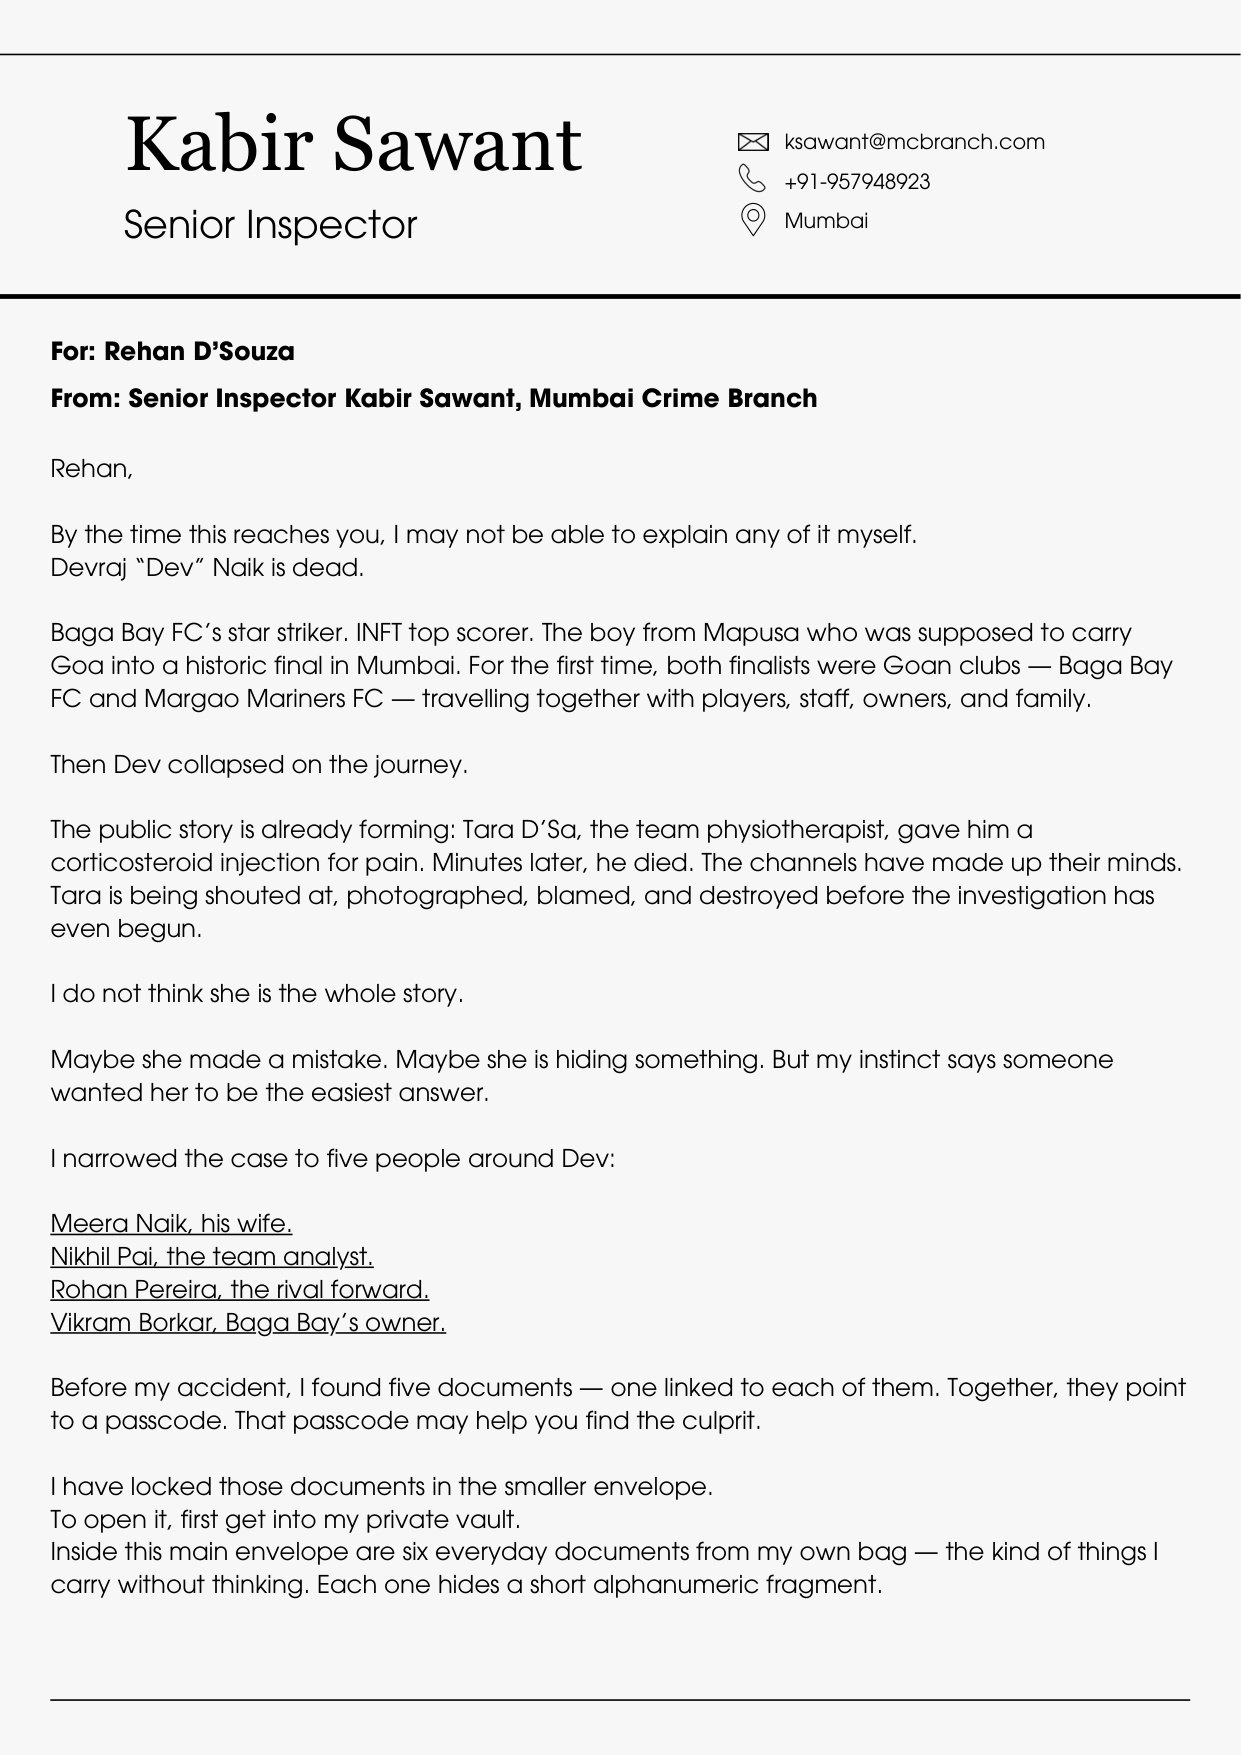
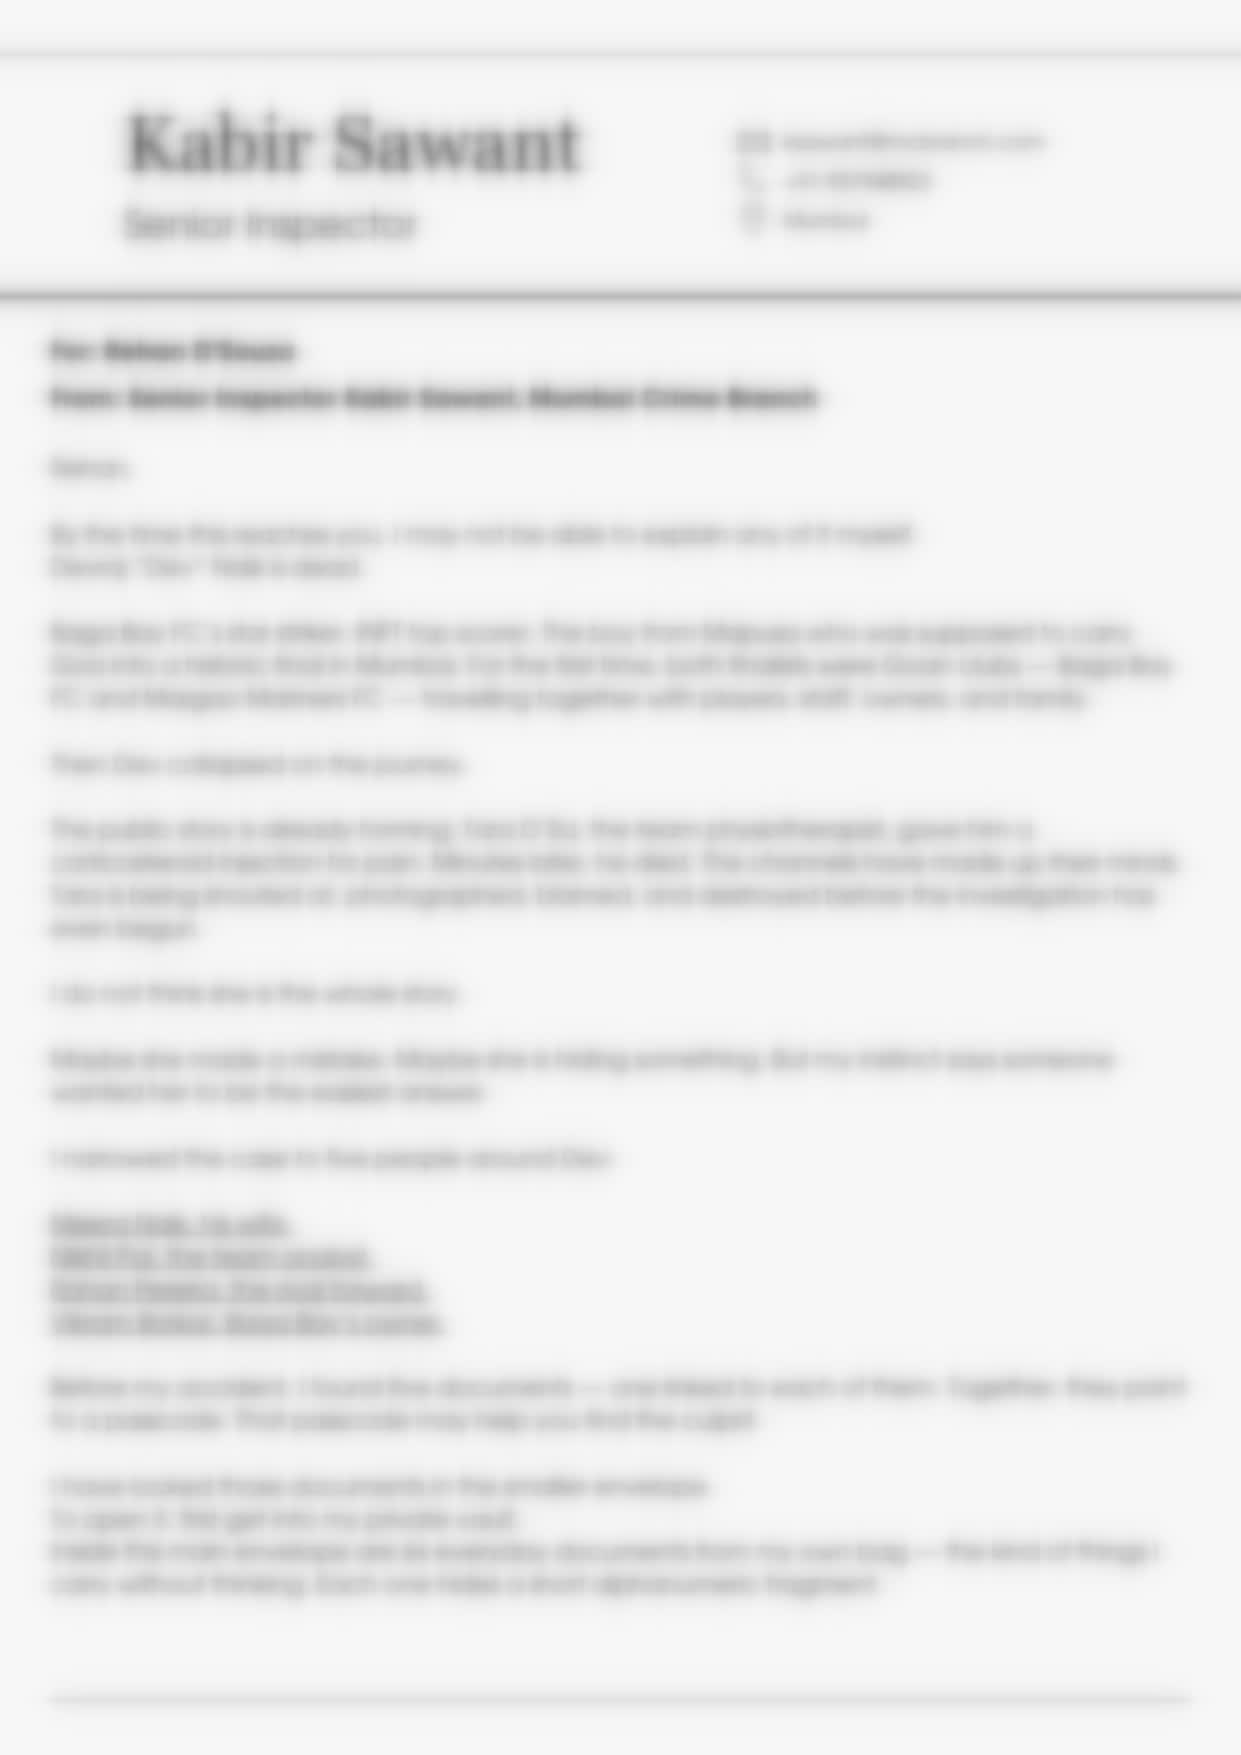
Fix password and Vault 2 grids (no zero-width columns); ffmpeg-blur hint JPEGs; drop CSS blur

Changed region(s): [[0.0, 0.0615, 1.0, 0.9231], [0.3368, 0.2769, 0.7349, 0.3077], [0.7655, 0.8615, 0.9186, 0.8923]]

diff --git a/themysterymail-vault/css/vault.css b/themysterymail-vault/css/vault.css
@@ -320,9 +320,11 @@ input[type="text"]::placeholder {
 }
 
 .password-grid {
-  display: grid;
-  grid-template-columns: repeat(auto-fill, minmax(3.5rem, 1fr));
-  gap: 0.5rem 0.35rem;
+  display: flex;
+  flex-wrap: wrap;
+  align-items: flex-start;
+  justify-content: flex-start;
+  gap: 0.5rem 0.45rem;
   margin-top: 0.5rem;
   max-width: 100%;
 }
@@ -331,8 +333,9 @@ input[type="text"]::placeholder {
   display: flex;
   flex-direction: column;
   align-items: center;
-  gap: 0.2rem;
-  min-width: 0;
+  gap: 0.25rem;
+  flex: 0 0 auto;
+  width: 3.35rem;
 }
 
 .pass-cell-hint {
@@ -352,7 +355,8 @@ input[type="text"]::placeholder {
   padding: 0.55rem 0.25rem;
   text-transform: uppercase;
   width: 100%;
-  max-width: 3.25rem;
+  min-width: 0;
+  box-sizing: border-box;
   transition:
     border-color 0.15s ease,
     background-color 0.15s ease,
@@ -681,10 +685,10 @@ input[type="text"]::placeholder {
 
 .numeric-grid {
   display: grid;
-  grid-template-columns: repeat(4, minmax(0, 1fr));
+  grid-template-columns: repeat(4, minmax(2.85rem, 1fr));
   gap: 0.65rem;
   margin-top: 0.5rem;
-  max-width: 300px;
+  max-width: 320px;
   margin-left: auto;
   margin-right: auto;
 }
@@ -695,6 +699,9 @@ input[type="text"]::placeholder {
   font-weight: 700;
   letter-spacing: 0.02em;
   padding: 0.6rem 0.35rem;
+  min-width: 0;
+  width: 100%;
+  box-sizing: border-box;
   transition:
     border-color 0.15s ease,
     background-color 0.15s ease,

diff --git a/themysterymail-vault/css/hints.css b/themysterymail-vault/css/hints.css
@@ -271,19 +271,20 @@
 }
 
 .page-hints .shot__inner {
-  display: block;
+  display: grid;
+  place-items: center;
   width: 100%;
   height: 100%;
   overflow: hidden;
 }
 
 .page-hints .shot__inner img {
-  width: 100%;
-  height: 100%;
-  object-fit: cover;
+  max-width: 100%;
+  max-height: 100%;
+  width: auto;
+  height: auto;
+  object-fit: contain;
   display: block;
-  filter: blur(5.5px);
-  transform: scale(1.14);
   user-select: none;
   -webkit-user-drag: none;
   pointer-events: none;
@@ -438,10 +439,5 @@
 @media (prefers-reduced-motion: reduce) {
   .page-hints .shots {
     scroll-snap-type: none;
-  }
-
-  .page-hints .shot__inner img {
-    filter: blur(3px);
-    transform: scale(1.08);
   }
 }

diff --git a/themysterymail-vault/hints.html b/themysterymail-vault/hints.html
@@ -64,8 +64,8 @@
       <p><strong>Player rule:</strong> look at the photo first. Open hints only when needed.</p>
       <p><strong>Spoilers are hidden:</strong> answers stay inside the final reveal for each item.</p>
       <p>
-        <strong>Thumbnails:</strong> images are blurred on purpose so you can tell which physical piece you are on,
-        not read the puzzle from the screen.
+        <strong>Thumbnails:</strong> photos are pre-blurred files so you can match the prop, not read fine print from
+        the screen.
       </p>
     </div>
 
